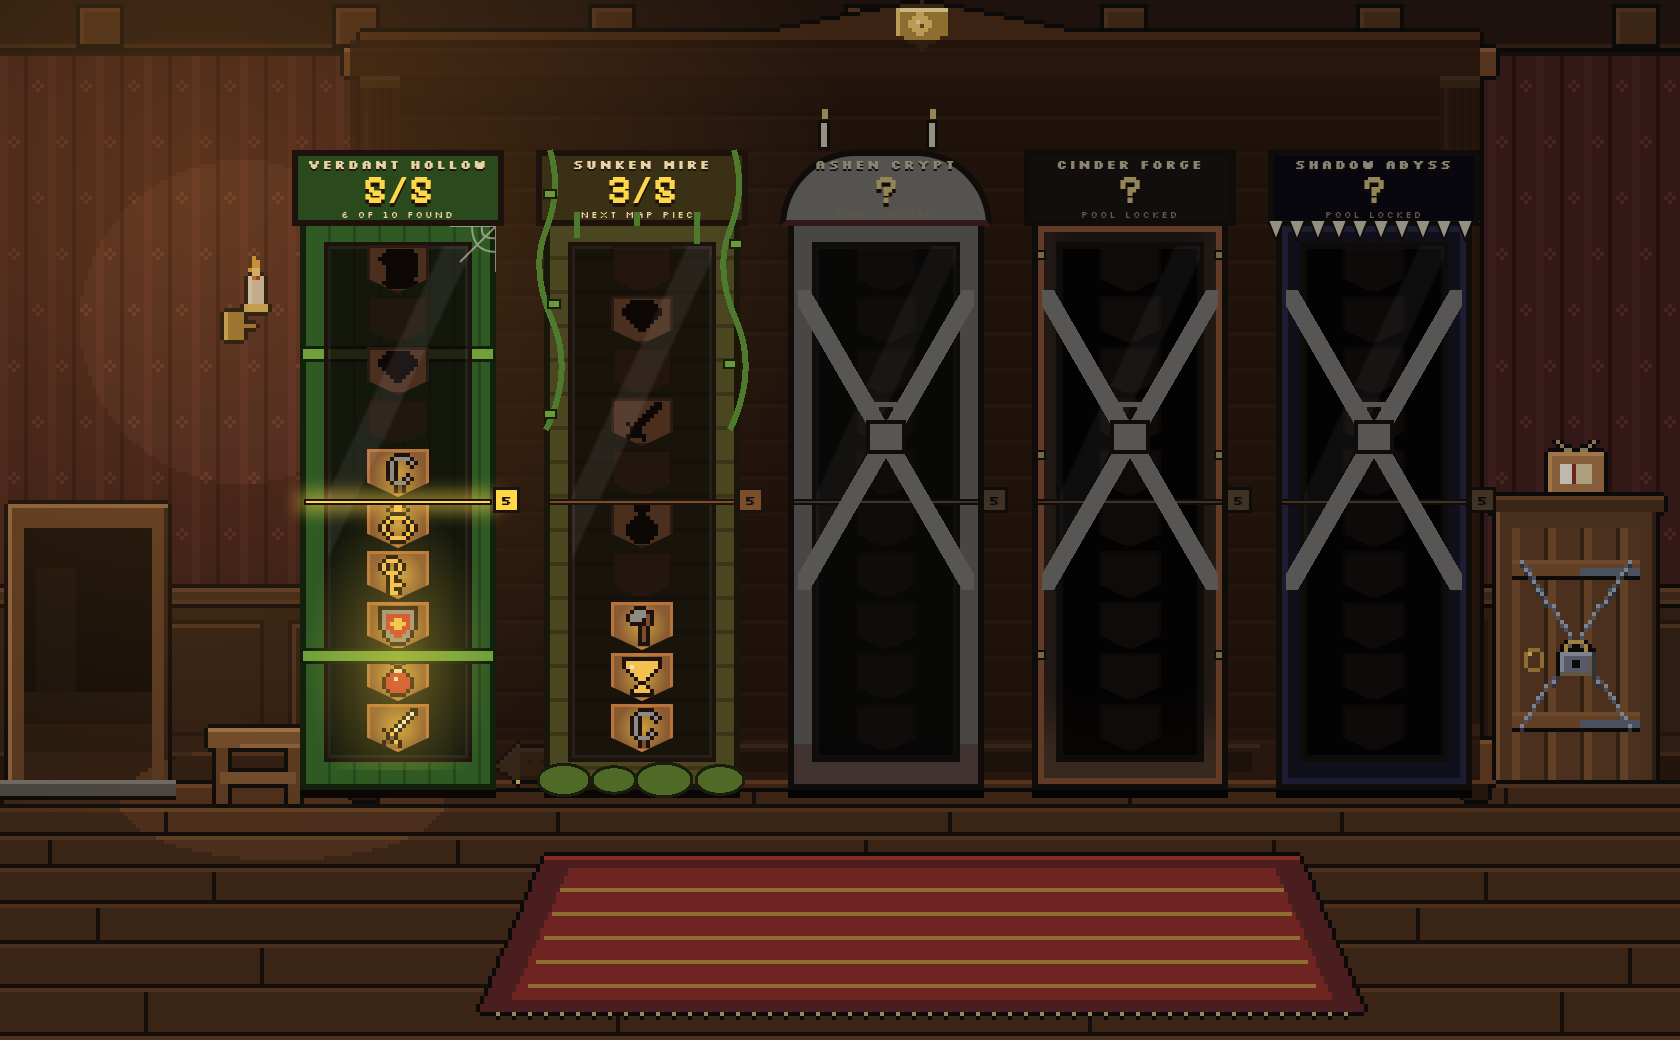
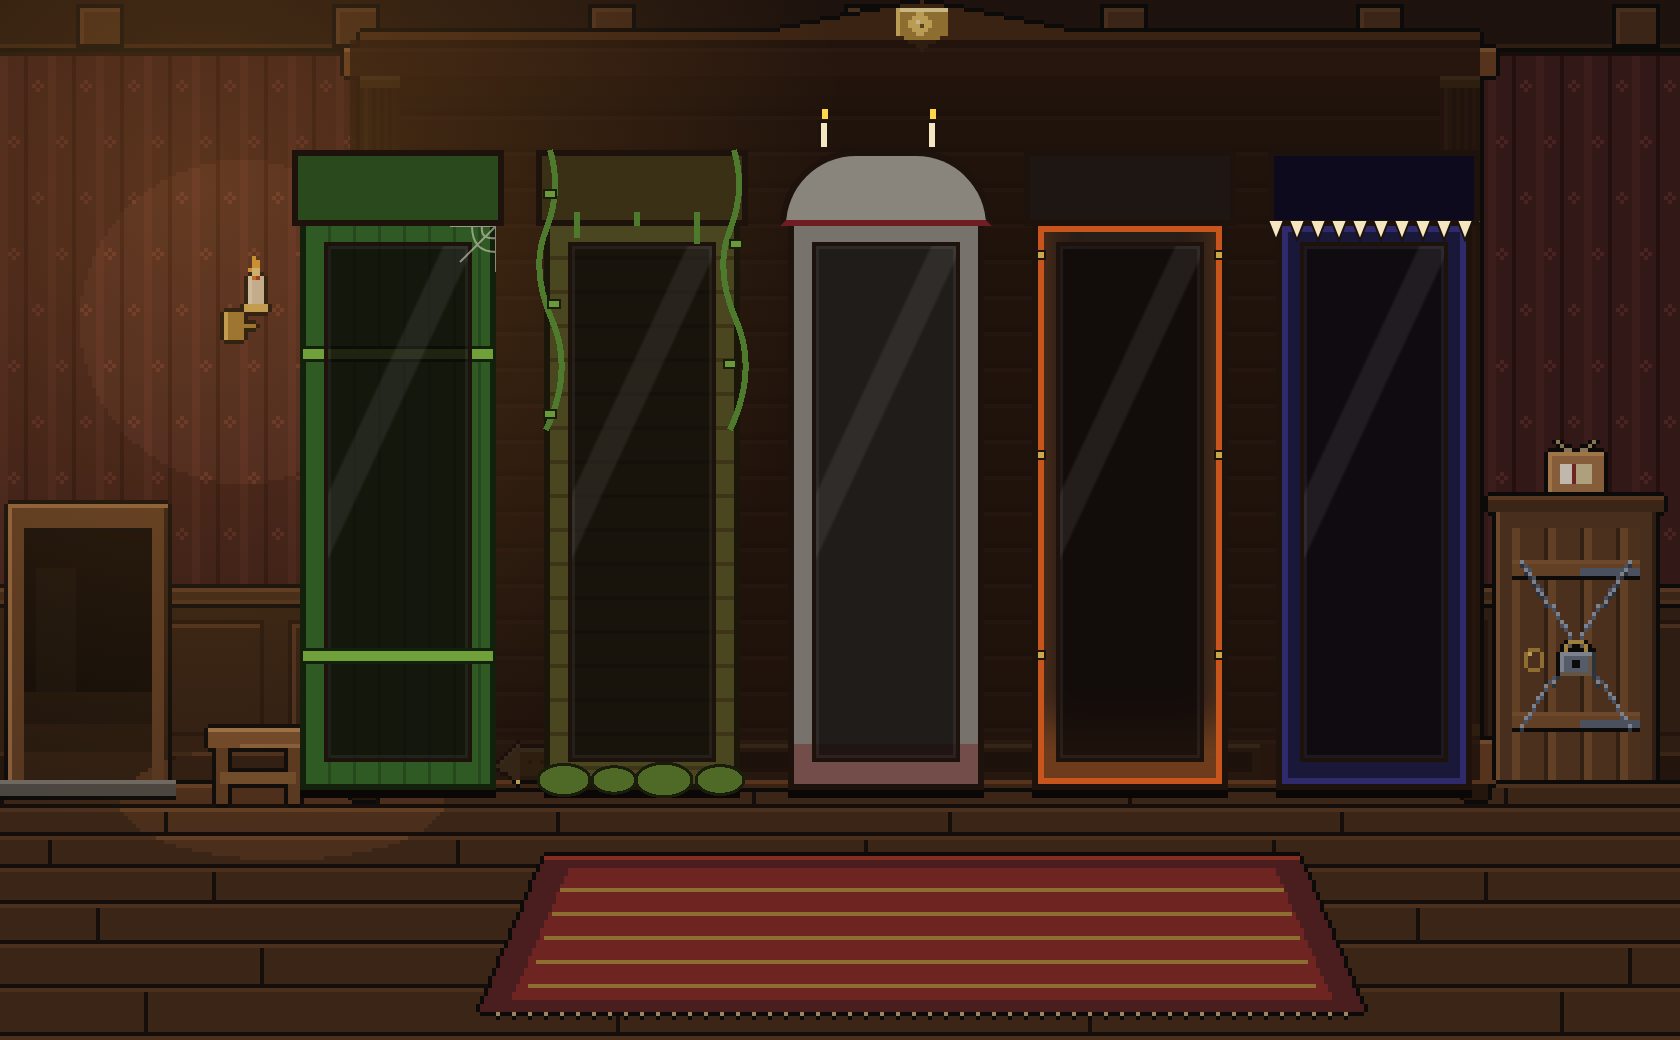
Hall chrome strip: no plaques/GateLine/hover-inspect + EMPTY cabinets plate
Strips FitLabelBox name plaques and yellow GateLine from hall biome mounts;
hover only swaps mount texture; left-click emits inspect_wanted. Replaces
cabinets_wall.png with Doop sSXqYUHvO2 EMPTY scrub. Opens repot
REQ-20261028-hall-chrome-strip; marks cabin-flip-167 done.

diff --git a/playtest/repot/inbox/REQ-20261028-hall-chrome-strip.md b/playtest/repot/inbox/REQ-20261028-hall-chrome-strip.md
@@ -1,0 +1,49 @@
+---
+id: REQ-20261028-hall-chrome-strip
+status: open
+priority: high
+pr:
+tip_sha:
+branch: playtest/latest
+created: 2026-10-28T20:30:00Z
+created_by: cursor-cloud
+viewport: 1680x1040
+entry: F5 playtest hub → Continue or Middle Progress → cabin main → right SideDoor into trophy hall
+parent: REQ-20261028-cabin-flip-167
+---
+
+# Hall trophy-case runtime chrome strip + EMPTY plate
+
+Parent REQ-20261028-cabin-flip-167 failed shots 06/07. This ship:
+
+1. **Code** (`scripts/home_cabin.gd`): no FitLabelBox item-name plaques, no yellow GateLine, hover ≠ inspect (mount highlight only; left-click → `inspect_wanted`).
+2. **Art**: replace `assets/dungeon/home/rooms/cabinets_wall.png` with Doop `sSXqYUHvO2` EMPTY scrub (1680×1040 RGB) — five open empty cases, no baked titles / POOL LOCKED / fake icons / gate bars / X locks. Source also under `design/handoff/outpost-regen/doop-ship/SHIP-D-cabinets-wall-EMPTY.png`.
+
+Still: no `case_*.png` reintroduction. Hit-only Case_* glass, scroll, slot icons, bank FX stay.
+
+## What to verify
+
+- Hall idle: FULL plate-clean — no baked biome titles / `?` / POOL LOCKED / X locks; **and** no runtime FitLabelBox plaques or yellow GateLine.
+- Hover a shelved mount: mount texture highlight only; inspect panel stays closed.
+- Left-click that mount: inspect opens.
+- Right-click still opens playtest comment when playtest flag is on.
+
+## Screenshots required
+
+| id | room | setup | expect | filename |
+|----|------|-------|--------|----------|
+| 01 | hall | Full hall idle, no hover/click | FULL plate-clean (no baked titles / POOL LOCKED / X); **no** FitLabelBox item-name plaques; **no** yellow GateLine; **no** inspect panel. Slot icons OK. | 01-hall-no-runtime-chrome.png |
+| 02 | hall | Hover a shelved mount (e.g. Counting Beads in Verdant Hollow) | Mount highlight only; inspect closed — must **not** show Counting Beads (or any) inspect card | 02-hall-hover-no-inspect.png |
+| 03 | hall | Left-click the same mount | Inspect opens for that card | 03-hall-click-inspect.png |
+
+## Pass criteria
+
+- All three PNGs under `playtest/repot/outbox/REQ-20261028-hall-chrome-strip/shots/` at 1680×1040 (godot-mcp preferred).
+- `01` shows empty-glass Doop plate (no baked chrome) and no runtime name plaques / GateLine.
+- `02` must not show an inspect card.
+- `03` must show inspect open after left-click.
+- Tip SHA in RESULT.md is this PR’s tip (or `playtest/latest` after merge) at shoot time.
+
+## Outbox path
+
+`playtest/repot/outbox/REQ-20261028-hall-chrome-strip/`

diff --git a/design/handoff/outpost-regen/doop-ship/MANIFEST.md b/design/handoff/outpost-regen/doop-ship/MANIFEST.md
@@ -6,7 +6,8 @@ Nathan: Doop ship-strip for cabinets wall + map-in-hands; PixelLab only for moun
 
 | Plate | Doop frame id | 1680×1040 | notes |
 |---|---|---|---|
-| Cabinets wall | `sSXqYUHvO2` | `SHIP-D-cabinets-wall.png` | legend fully gone |
+| Cabinets wall (EMPTY scrub) | `sSXqYUHvO2` | `SHIP-D-cabinets-wall-EMPTY.png` → live `assets/dungeon/home/rooms/cabinets_wall.png` | 2026-10-28 EMPTY scrub: five open empty cases; no titles / POOL LOCKED / fake icons / gate bars / X locks |
+| Cabinets wall (prior) | `sSXqYUHvO2` | `SHIP-D-cabinets-wall.png` | earlier ship; still had baked titles / locked chrome — superseded by EMPTY |
 | Map-in-hands mid | `oYWAbgs2oF` | `SHIP-B-map-in-hands.png` | no SPACE chrome hint |
 
 Supersedes earlier Pixel frames `rH8lfOM0GR` / `O64xs1KB6E` (cabinets still had legend scrap).

diff --git a/playtest/repot/inbox/REQ-20261028-cabin-flip-167.md b/playtest/repot/inbox/REQ-20261028-cabin-flip-167.md
@@ -1,6 +1,6 @@
 ---
 id: REQ-20261028-cabin-flip-167
-status: open
+status: done
 priority: high
 pr: 167
 tip_sha: 2b92c62e
